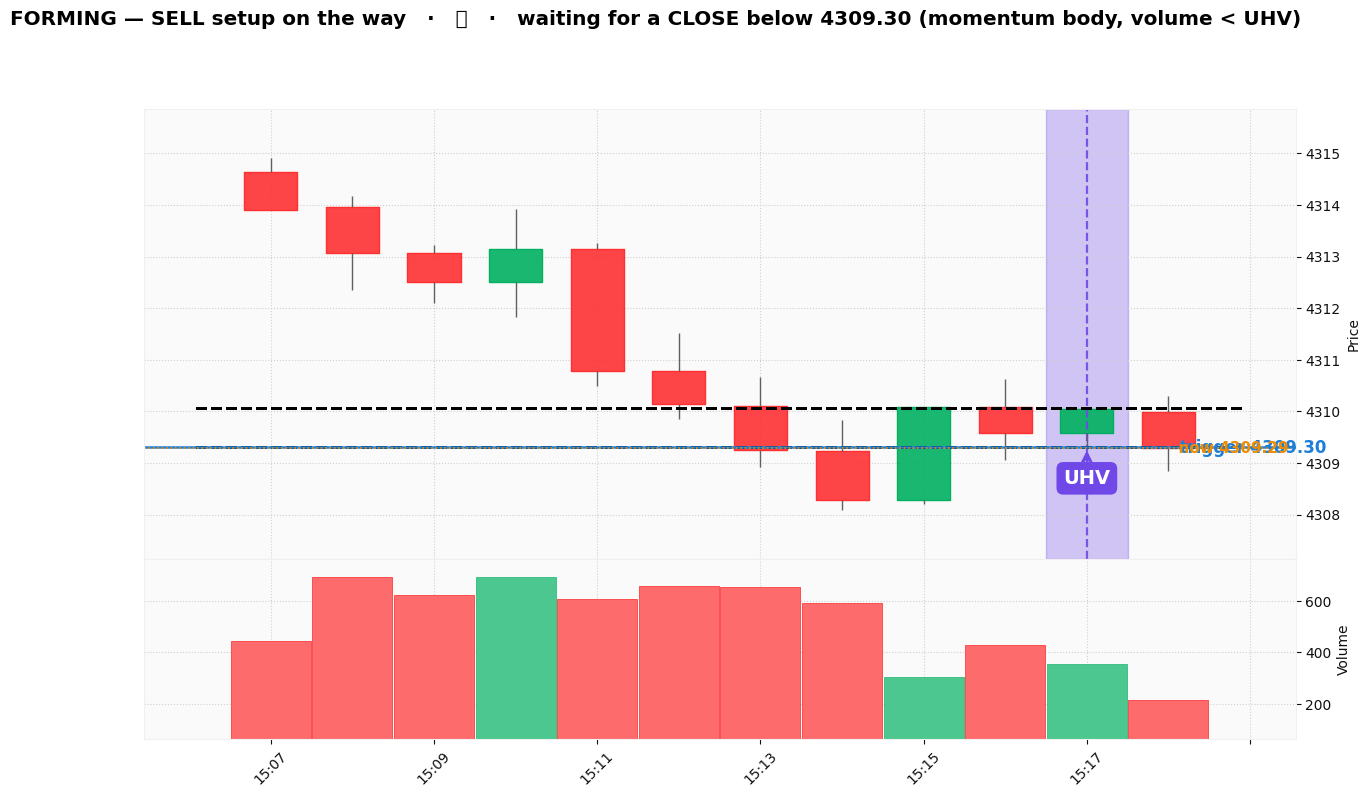
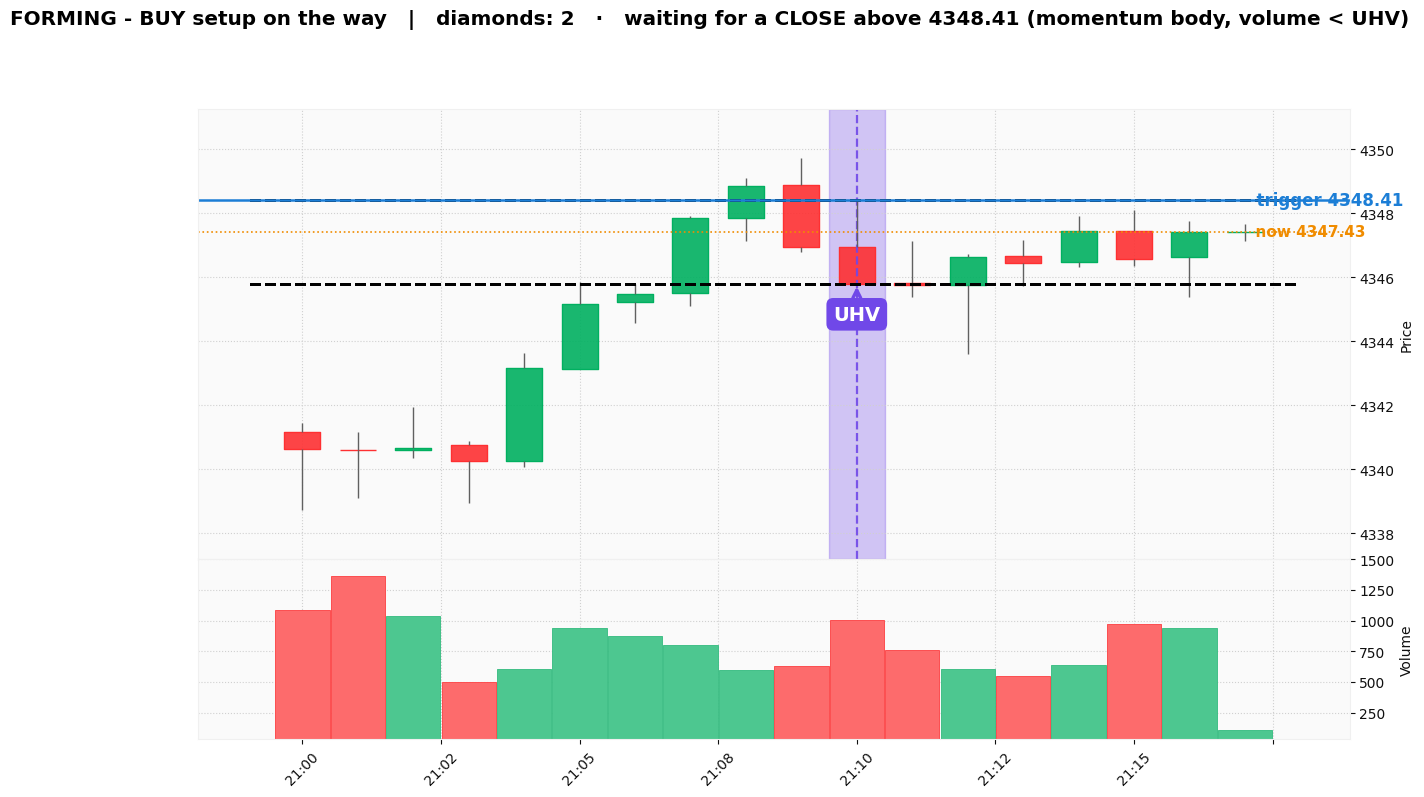
Forensic chart: the UHV band/lines vanished whenever the UHV bar was not inside the drawn window (a bridge gap, or a tape that had not caught up when the GUI drew it) — the chart silently omitted the one thing it exists to show. The UHV is now located anywhere in the tape (nearest bar within 5 min) 

diff --git a/monitor/forensic_chart.py b/monitor/forensic_chart.py
@@ -267,11 +267,22 @@ def draw_trade(broker_ts, side, exit_px, out=None):
     bi = next((i for i, x in enumerate(win)
                if x[0] <= e_utc < x[0] + timedelta(minutes=1)), None)
     uhv = win[ui] if ui is not None else None
+    if uhv is None:
+        # The UHV bar may be missing from the drawn window (a bridge gap, or a tape
+        # that had not caught up when the GUI drew it). Zee 2026-08-07: "it doesn't
+        # mark the UHV / trigger lines — maybe it drew off screen?" Find the bar
+        # anywhere in the tape and STILL draw its two trigger lines, so a chart is
+        # never silently missing the thing it exists to show.
+        uhv = next((x for x in rows if x[0] == u_utc), None)
+        if uhv is None:
+            near = sorted(rows, key=lambda x: abs((x[0] - u_utc).total_seconds()))
+            uhv = near[0] if near and abs((near[0][0] - u_utc).total_seconds()) <= 300 else None
     style = mpf.make_mpf_style(base_mpf_style="yahoo", gridstyle=":")
     hl = dict(hlines=[uhv[2], uhv[3]] if uhv else [r["lamp"]],
               colors=["k"] * (2 if uhv else 1), linestyle="--", linewidths=[2.0, 2.0])
+    off = " (UHV outside the drawn window - lines shown)" if (ui is None and uhv) else ""
     ttl = (f"FORENSIC — {side} entered "
-           f"{(e_utc + timedelta(hours=5)):%H:%M} PKT · closed {broker_ts[11:]} broker")
+           f"{(e_utc + timedelta(hours=5)):%H:%M} PKT · closed {broker_ts[11:]} broker{off}")
     fig, axes = mpf.plot(df, type="candle", style=style, volume=True, figsize=(16, 9),
                          hlines=hl, returnfig=True, title=ttl)
     ax = axes[0]

diff --git a/monitor/oanda_live_matcher.py b/monitor/oanda_live_matcher.py
@@ -671,10 +671,15 @@ def main():
     # freshness window — and this matcher was restarted ~15 times today. The dedup
     # now persists to disk across restarts.
     _SEEN_F = Path(__file__).parent / ".emitted_setups.json"
+    seq = 0                     # BUGFIX 2026-08-07: seq was ONLY initialised in the
+                                # except branch, so whenever the dedup file loaded
+                                # successfully every signal emission died with
+                                # "cannot access local variable seq" — the machine
+                                # could not fire at all once the door was retired.
     try:
         seen = set(tuple(x) for x in json.loads(_SEEN_F.read_text()))
     except Exception:
-        seen = set(); seq = 0
+        seen = set()
     last_armed_key = None
     print("[oanda_matcher] live fast-scalp — watching oanda_m1.csv (ghost-door armed mode)")
     while True:
